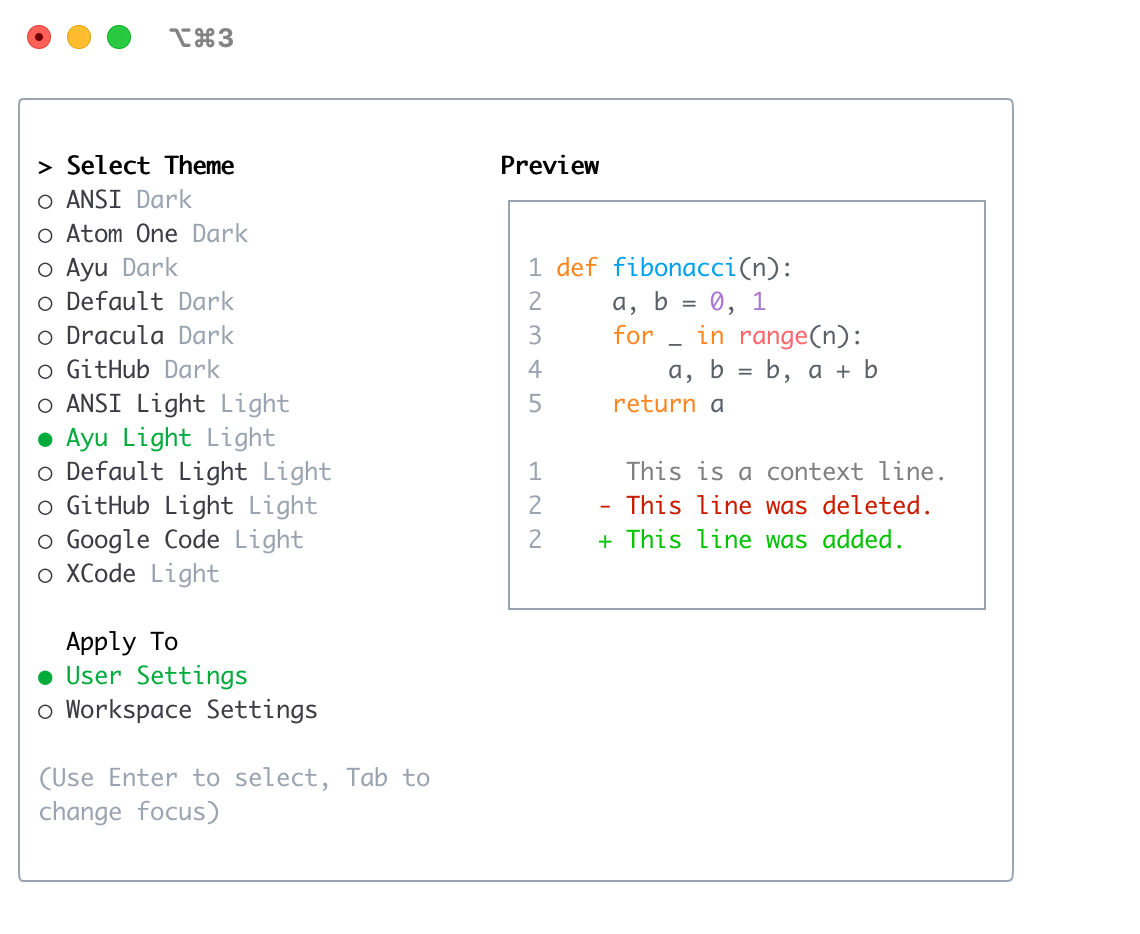
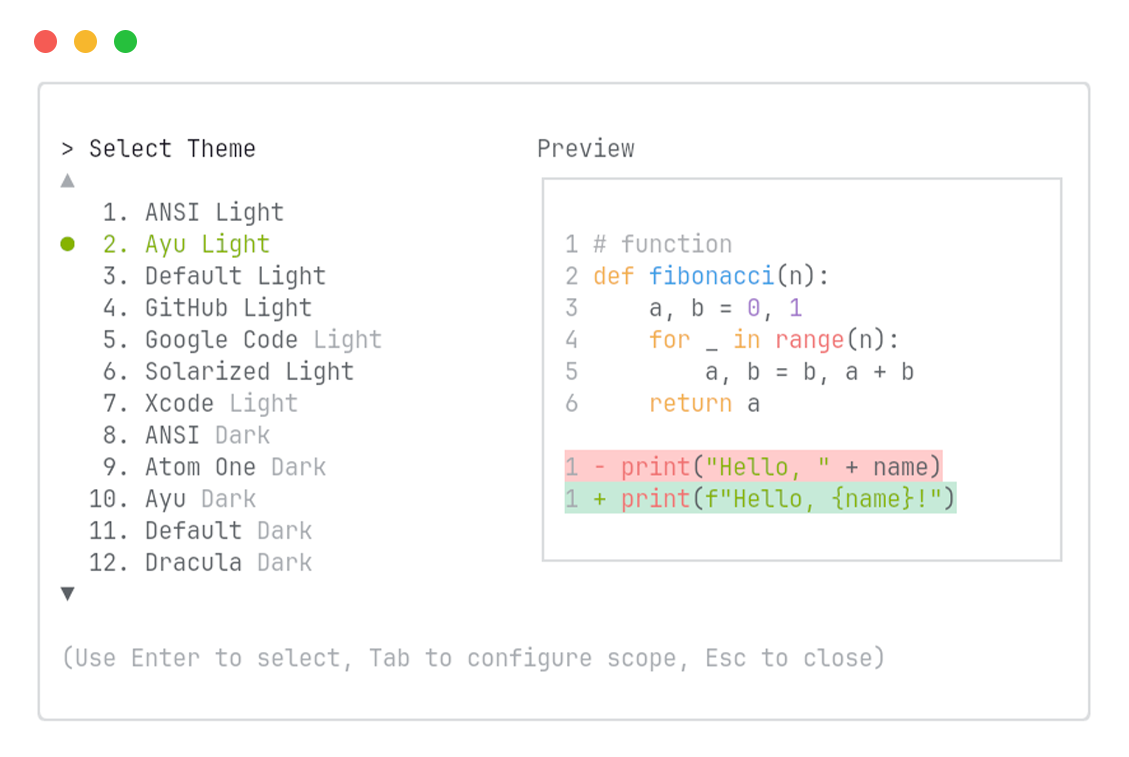
fix(docs): update theme screenshots and add missing themes (#20689)

diff --git a/docs/cli/themes.md b/docs/cli/themes.md
@@ -16,6 +16,8 @@ using the `/theme` command within Gemini CLI:
   - `Default`
   - `Dracula`
   - `GitHub`
+  - `Holiday`
+  - `Shades Of Purple`
   - `Solarized Dark`
 - **Light themes:**
   - `ANSI Light`
@@ -185,7 +187,7 @@ untrusted sources.
 
 ### Example custom theme
 
-<img src="../assets/theme-custom.png" alt="Custom theme example" width="600" />
+<img src="/docs/assets/theme-custom.png" alt="Custom theme example" width="600" />
 
 ### Using your custom theme
 
@@ -212,58 +214,66 @@ identify their source, for example: `shades-of-green (green-extension)`.
 
 ### ANSI
 
-<img src="/assets/theme-ansi.png" alt="ANSI theme" width="600" />
+<img src="/docs/assets/theme-ansi-dark.png" alt="ANSI theme" width="600">
 
-### Atom OneDark
+### Atom One
 
-<img src="/assets/theme-atom-one.png" alt="Atom One theme" width="600">
+<img src="/docs/assets/theme-atom-one-dark.png" alt="Atom One theme" width="600">
 
 ### Ayu
 
-<img src="/assets/theme-ayu.png" alt="Ayu theme" width="600">
+<img src="/docs/assets/theme-ayu-dark.png" alt="Ayu theme" width="600">
 
 ### Default
 
-<img src="/assets/theme-default.png" alt="Default theme" width="600">
+<img src="/docs/assets/theme-default-dark.png" alt="Default theme" width="600">
 
 ### Dracula
 
-<img src="/assets/theme-dracula.png" alt="Dracula theme" width="600">
+<img src="/docs/assets/theme-dracula-dark.png" alt="Dracula theme" width="600">
 
 ### GitHub
 
-<img src="/assets/theme-github.png" alt="GitHub theme" width="600">
+<img src="/docs/assets/theme-github-dark.png" alt="GitHub theme" width="600">
+
+### Holiday
+
+<img src="/docs/assets/theme-holiday-dark.png" alt="Holiday theme" width="600">
+
+### Shades Of Purple
+
+<img src="/docs/assets/theme-shades-of-purple-dark.png" alt="Shades Of Purple theme" width="600">
 
 ### Solarized Dark
 
-<img src="/assets/theme-solarized-dark.png" alt="Solarized Dark theme" width="600">
+<img src="/docs/assets/theme-solarized-dark.png" alt="Solarized Dark theme" width="600">
 
 ## Light themes
 
 ### ANSI Light
 
-<img src="/assets/theme-ansi-light.png" alt="ANSI Light theme" width="600">
+<img src="/docs/assets/theme-ansi-light.png" alt="ANSI Light theme" width="600">
 
 ### Ayu Light
 
-<img src="/assets/theme-ayu-light.png" alt="Ayu Light theme" width="600">
+<img src="/docs/assets/theme-ayu-light.png" alt="Ayu Light theme" width="600">
 
 ### Default Light
 
-<img src="/assets/theme-default-light.png" alt="Default Light theme" width="600">
+<img src="/docs/assets/theme-default-light.png" alt="Default Light theme" width="600">
 
 ### GitHub Light
 
-<img src="/assets/theme-github-light.png" alt="GitHub Light theme" width="600">
+<img src="/docs/assets/theme-github-light.png" alt="GitHub Light theme" width="600">
 
 ### Google Code
 
-<img src="/assets/theme-google-light.png" alt="Google Code theme" width="600">
+<img src="/docs/assets/theme-google-light.png" alt="Google Code theme" width="600">
 
 ### Solarized Light
 
-<img src="/assets/theme-solarized-light.png" alt="Solarized Light theme" width="600">
+<img src="/docs/assets/theme-solarized-light.png" alt="Solarized Light theme" width="600">
 
 ### Xcode
 
-<img src="/assets/theme-xcode-light.png" alt="Xcode Light theme" width="600">
+<img src="/docs/assets/theme-xcode-light.png" alt="Xcode Light theme" width="600">

diff --git a/README.md b/README.md
@@ -6,7 +6,7 @@
 [![License](https://img.shields.io/github/license/google-gemini/gemini-cli)](https://github.com/google-gemini/gemini-cli/blob/main/LICENSE)
 [![View Code Wiki](https://assets.codewiki.google/readme-badge/static.svg)](https://codewiki.google/github.com/google-gemini/gemini-cli?utm_source=badge&utm_medium=github&utm_campaign=github.com/google-gemini/gemini-cli)
 
-![Gemini CLI Screenshot](./docs/assets/gemini-screenshot.png)
+![Gemini CLI Screenshot](/docs/assets/gemini-screenshot.png)
 
 Gemini CLI is an open-source AI agent that brings the power of Gemini directly
 into your terminal. It provides lightweight access to Gemini, giving you the
